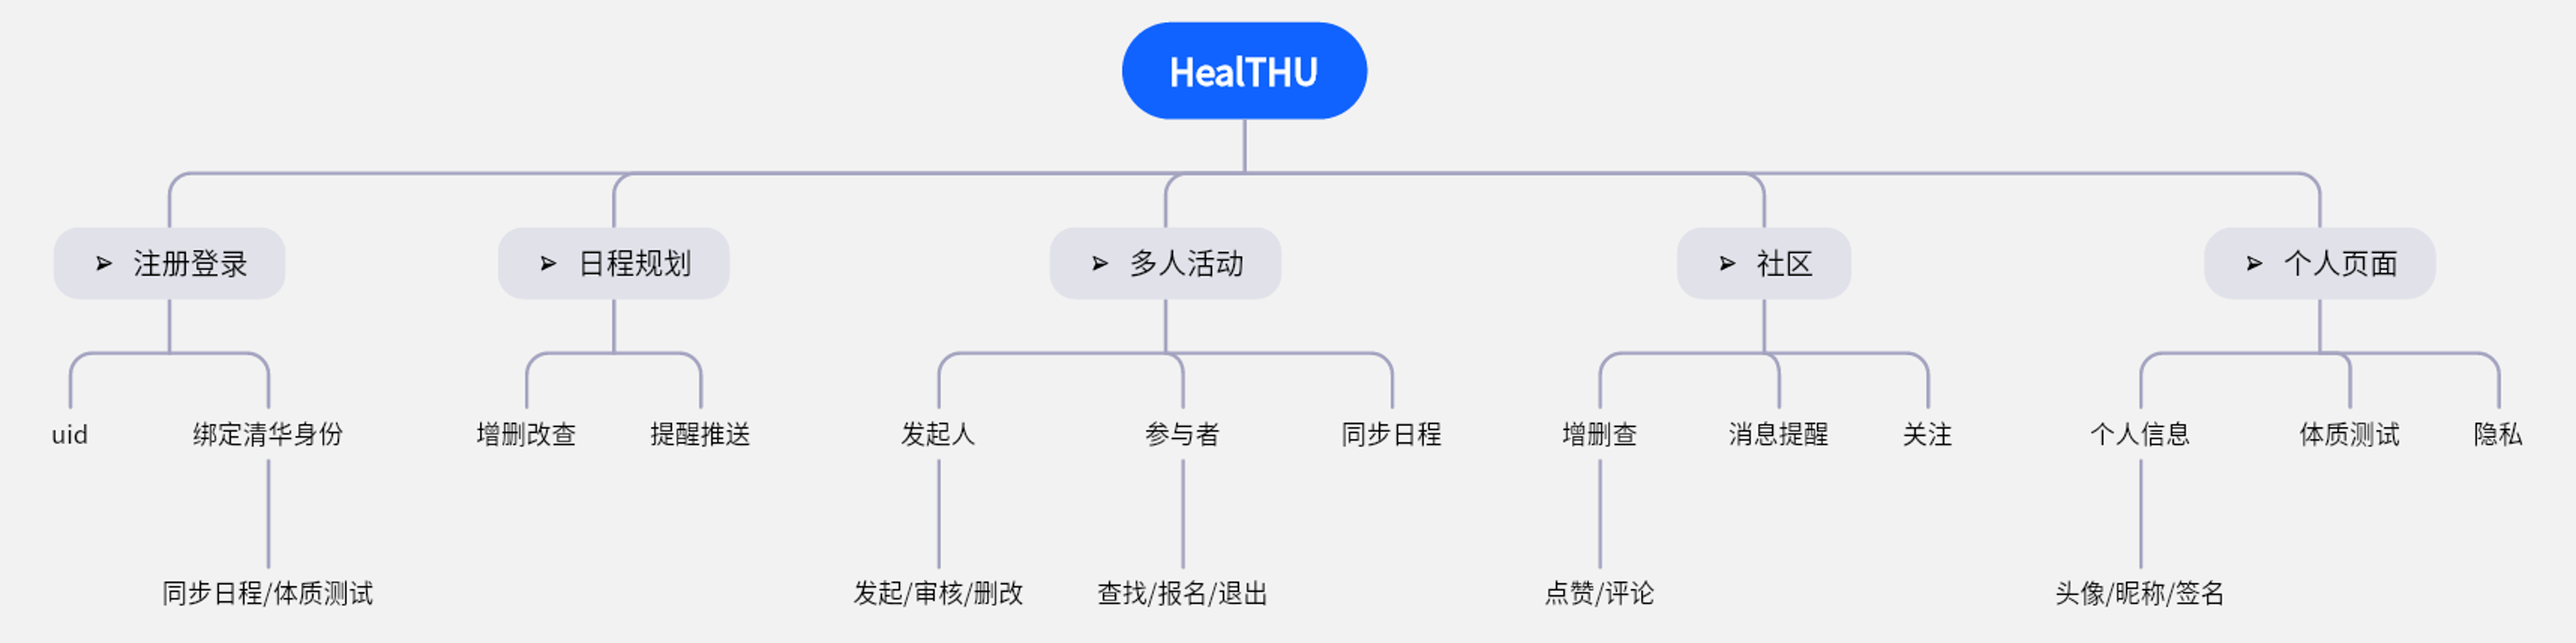
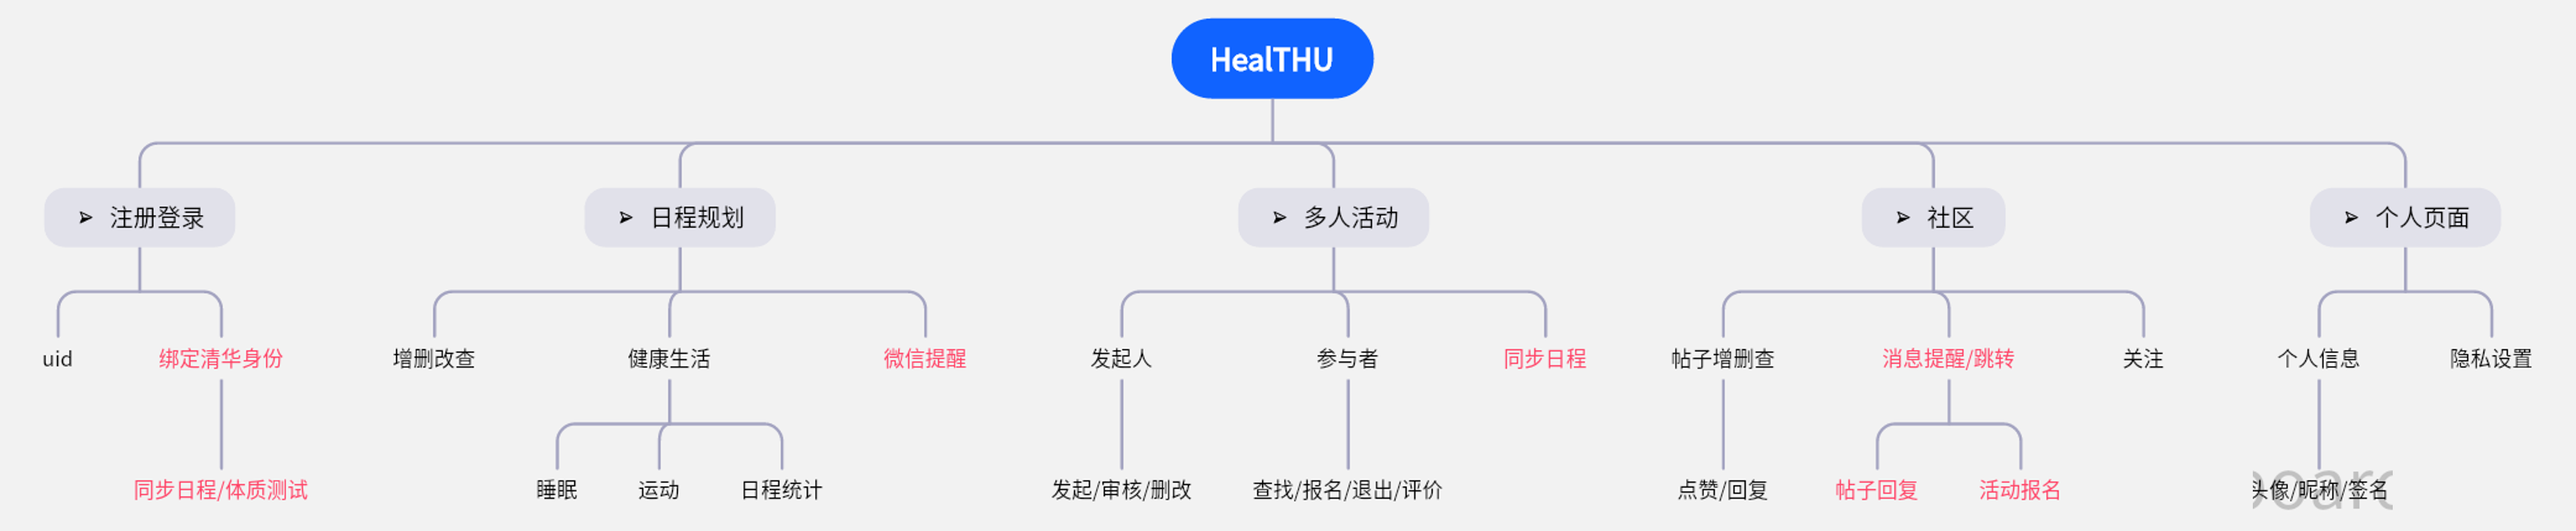
docs: 需求规格说明 & 会议记录

diff --git a/需求规格说明书.md b/需求规格说明书.md
@@ -29,7 +29,7 @@
 
 1. 移动端设备通常自带单一的日程提醒功能（如“手机日历”），由于设备差异，难以在多用户之间实现同步，仅能用于单人性日程。
 2. 目前已有的“待办”“日历”类软件补充了时间统计、多端同步等功能，但仍局限于单人使用，且新功能通常需要付费以解锁使用。
-3. 企业办公软件（如“企业微信”、“飞书”）通常自带简单的日程管理模块，能够为多人安排预定的会议日程。但与清华学生的应用需求不完全相符，且学生之间不具有“企业关系”或“上下级关系”，也难以为多人活动特意使用企业办公软件、建立“企业组织”。
+3. 企业办公软件（如“企业微信”、“飞书”）通常自带简单的日程管理模块，能够为多人安排预定的会议日程。但与清华学生的应用需求不完全相符，且学生之间不具有“企业关系”或“上下级关系”，也难以为多人活动特意使用企业办公软件、为单次活动建立“企业组织”。
 
 
 #### 2.3 一般性限制
@@ -41,7 +41,7 @@
 #### 2.4	假设和依赖
 
 1. 项目发起方能参与需求核准工作。
-2. 考虑到清华大学本科生每届约3500人，系统实际用户数量不超过15000人。
+2. 系统实际用户数量不超过10000人。
 3. 对于小程序用户，微信版本需要 8.0.0 以上（2021.01.25更新版本）；用户需要有稳定的网络连接才能正常使用该软件。
 4. 可使用清华大学信息门户的部分接口，以及部分清华大学的宣传元素。
 
@@ -58,9 +58,9 @@
 ##### 3.1.2	主页
 1. 展示今日事务，并随时间更新，在事务开始及结束时通过**微信消息推送**（提醒可以手动关闭），提醒用户；展示近期截止日期提醒。
 
-<image src="./assert_temp/todo-ddl.png" width=200 />
+<img src="./assert_temp/notice.jpg" width=200 >
 
-2. 日程规划入口（“管理”）：查看单日的所有日程及其完成情况，**点击日期提供快速日期跳转**，可以添加不同类型的事务（“+”按钮，类型分为ddl、活动、课程、运动、饮食），**点击事项跳转至编辑界面**。
+2. 日程规划入口（“管理”）：查看单日的所有日程及其完成情况，**点击日期提供快速日期跳转**，可以添加不同类型的事务（“+”按钮，类型分为ddl、活动、课程、运动、饮食），点击进行中的事项可以手动标记为“已完成”，未完成事项将**跳转至编辑界面**。
 
 <image src="./assert_temp/todo.png" width=200 />
 
@@ -68,19 +68,25 @@
 3. 运动入口：筛选当日用户运动相关日程进行展示，并展示场馆预约信息，及跳转到场馆预约页面。
 4. 活动入口：见3.1.3节。
 5. 统计入口：浏览先前的日程完成情况总结。
-6. 成就入口：浏览个人已达成的成就（对应徽章由灰色变为彩色）及达成时间，未达成成就的进度。
+6. 成就入口(示例界面)：浏览个人已达成的成就（对应徽章由灰色变为彩色）详情及达成时间，未达成成就的进度。
 
 ##### 3.1.3 活动
 
 活动的加入会自动将事件同步在时间规划中。
 
-1. 预览活动，点击可进入对应的活动界面。可根据日期范围对活动进行筛选。可仅展示关注者发起或参与的活动。
+1. 预览活动，点击可进入对应的活动界面。可根据日期范围对活动进行筛选。可仅展示关注者发起或参与的活动。详情界面展示如下：
+
+<image src="./assert_temp/act.png" width=200 />
+
 2. 报名活动入口。
-3. 发起活动入口，支持图文信息。能够编辑自己发起的活动（不支持时间修改），以及删除活动，审核报名申请。
-4. 活动结束后参与人可以对发起人进行评价。
+3. 发起活动入口，支持图文信息。能够删除活动，审核报名申请。
+4. 活动结束后，可对活动进行评价。
 
 ##### 3.1.4	社区
 1. 预览帖子，点击可进入对应帖子界面。可根据热度、发帖时间进行排序，可仅展示关注者的帖子。帖子界面中可点赞、评论、删除（仅发布者）。
+
+<image src="./assert_temp/bbs.jpg" width=200 />
+
 2. 发帖入口（“+”按钮），支持图文信息。
 3. 消息入口，浏览账号接收到的回复、活动报名等消息，按时间排序，支持筛选未查看的消息。
 4. 搜索栏：可通过关键字搜索帖子标题或用户，支持跳转到对应帖子或用户。
@@ -90,8 +96,8 @@
 
 <image src="./assert_temp/infochange.png" width=200 />
 
-2. 个人主页入口（显示个人信息、成就、最近发帖和活动），关注列表、粉丝列表入口（快速关注、取关及访问对应个人主页）。
-3. 清华身份绑定入口。
+2. 个人主页入口（显示个人信息、最近发帖和活动），关注列表、粉丝列表入口（快速关注、取关及访问对应个人主页）。
+3. 清华身份绑定入口。当输入了正确的清华学号与密码并进行绑定后，健康状况查看页面的信息会同步为体测信息，个人事项中也会同步课表中的课程、考试等事务。
 4. 隐私权限修改入口。
 
 <image src="./assert_temp/privacy.png" width=200 />
@@ -128,8 +134,6 @@
 优先级：低；技术实现难度：中
 - 用户可以手动选择开始运动/睡眠让程序记录，软件动态更新任务完成情况，并提供昨日的总结报告
 优先级：高；技术实现难度：高
-- 用户可以查看完成情况的历史记录，完成一些阶段性目标可以获得成就徽章，用户可以设置徽章的展示情况
-优先级：高；技术实现难度：中
 - 用户可以在社区页面对帖子进行浏览、发布、回复等操作，可以设置浏览帖子的优先级与屏蔽等操作，同时可以在社区中对用户进行关注、屏蔽等操作
 优先级：中；技术实现难度：中
 - 用户可以通过消息按钮跳转到接收消息，接受到的消息如果是新消息会标识，帖子中的回复与点赞消息可以跳转到帖子相应位置，私聊消息进入私聊页面

diff --git a/会议记录.md b/会议记录.md
@@ -50,3 +50,32 @@
 * 前后端各个API的对接
 * 运动记录调用接口的探讨
 * 睡眠记录调用接口的探讨
+### 第八次会议
+#### 时间： 2023.12.7 第十二周
+* 第二次验收总结，应加快进度
+* API文档完善（主要为论坛相关）及建议
+* 后端开始完成论坛模块，规划进度
+### 第九次会议
+#### 时间： 2023.12.14 第十三周
+* 论坛接口补充和bug解决
+* 决定进行哪些测试（单元、性能、场景等）
+* git分支相关再次进行学习
+### 第十次会议
+#### 时间： 2023.12.21 第十四周
+* 图片上传服务器相关问题
+* 集中解决程序bug，规范命名大小写
+* 第三次验收总结，突出清华特色，明确代办事项
+* 确定部署方法，完成初步部署
+* 明确分支管理
+### 第十一次会议
+#### 时间： 2023.12.25 第十五周
+* 终期答辩前集中开发、debug
+* 部署情况及连接清华相关接口讨论
+* 测试方法讨论
+* 选择性删除实现暂不完善的冗余功能
+### 第十二次会议
+#### 时间： 2024.1.2 第十六周
+* 交付前集中开发、debug工作流
+* 部署和小程序审核问题
+* 安排测试实施和介绍视频录制
+* 交付文档编写分工

diff --git a/README.md b/README.md
@@ -4,7 +4,7 @@
 
 前端: 采用框架 Vant Weapp (https://youzan.github.io/vant-weapp/#/home)
 
-后端：Django（补充一些版本信息etc）
+后端：Django 
 
 文件结构：
 
